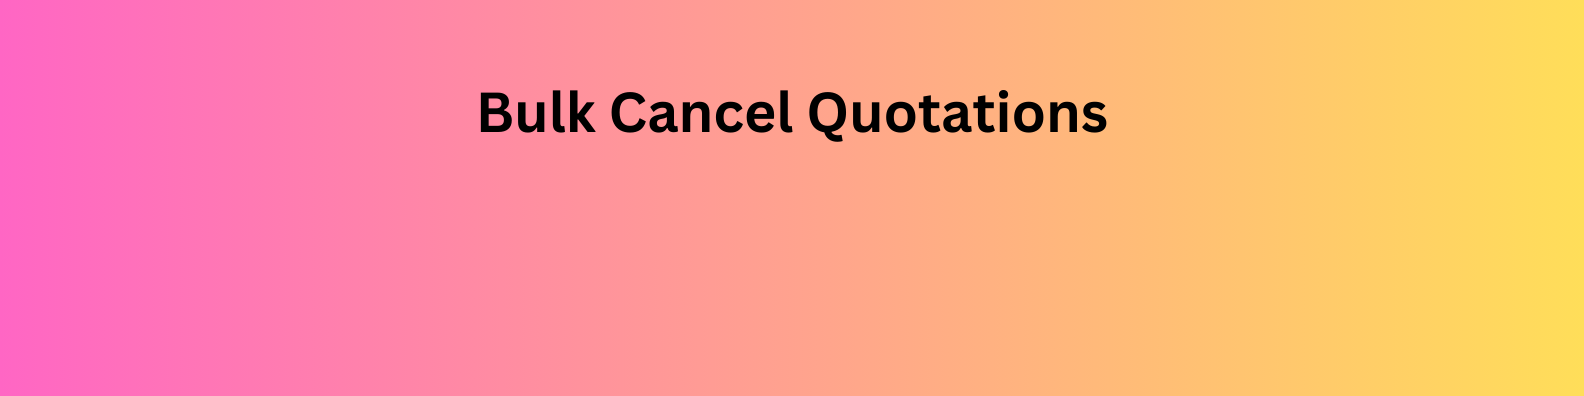
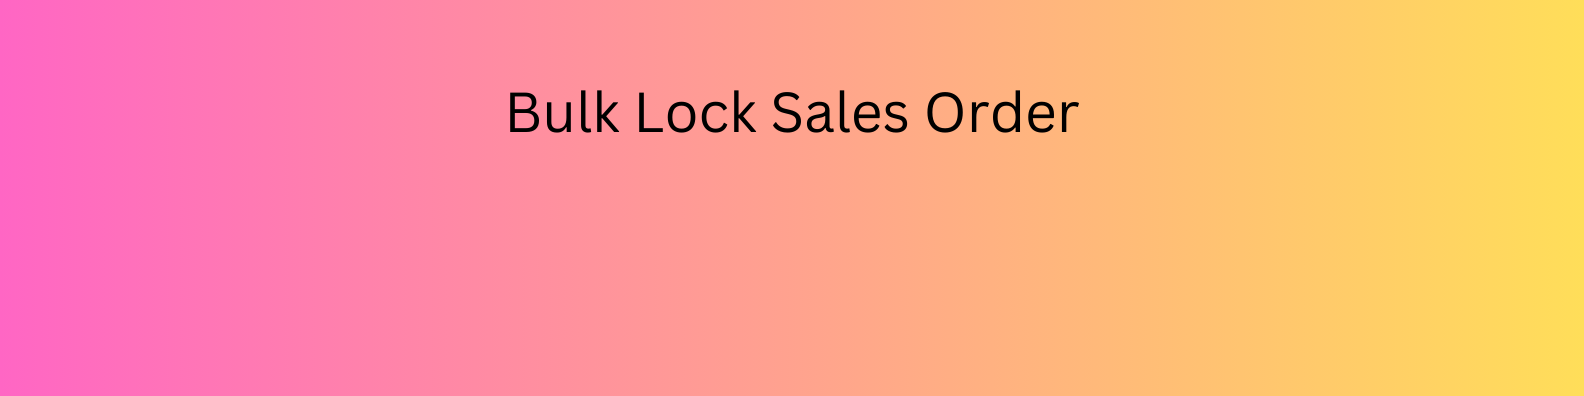
add new module for sales lock and unlock

Changed region(s): [[0.2784, 0.2121, 0.7115, 0.3636]]

diff --git a/mkb_bulk_so_lock/__manifest__.py b/mkb_bulk_so_lock/__manifest__.py
@@ -2,10 +2,10 @@
 # License LGPL-3 - See http://www.gnu.org/licenses/Lgpl-3.0.html
 
 {
-    'name': 'Bulk Lock Sales Orders',
+    'name': 'Bulk Unlock Sales Orders',
     'version': '1.0.0',
-    'summary': 'This app allows you to lock multiple sales order in bulk',
-    'description': 'This app allows you to lock multiple sales order in bulk',
+    'summary': 'This app allows you to unlock multiple sales order in bulk',
+    'description': 'This app allows you to unlock multiple sales order in bulk',
     'category': 'Sales',
     'author': 'Manish Bohra',
     'website': 'www.linkedin.com/in/manishkumarbohra',

diff --git a/mkb_bulk_so_lock/model/bulk_sales.py b/mkb_bulk_so_lock/model/bulk_sales.py
@@ -11,4 +11,4 @@ class BulkSalesOrderCancel(models.Model):
         """this method used to sales order confirmation in bulk."""
         for sales in self:
             if sales.state  in ['sale'] and not sales.locked:
-                sales.update({'locked':True})
+                sales.update({'locked':False})

diff --git a/mkb_bulk_so_lock/README.md b/mkb_bulk_so_lock/README.md
@@ -1,20 +1,20 @@
-# Bulk Lock Sales Orders
+# Bulk Unlock Sales Orders
 
-Lock multiple confirmed Sales Orders in one go from the Sales Orders list view.
+Unlock multiple locked Sales Orders in one go from the Sales Orders list view.
 
 ---
 
 ## Features
 
-- Adds an **Action ▸ Lock Sales Orders** option in the Sales Orders list view.
-- Select several confirmed orders at once and lock them in bulk.
+- Adds an **Action ▸ Unlock Sales Orders** option in the Sales Orders list view.
+- Select several locked orders at once and unlock them in bulk.
 - Respects standard Odoo access rights and workflow.
 
 ---
 
 ## Compatibility
 
-- Odoo: 19.0
+- Odoo: 16.0 / 17.0 / 18.0 (adjust if different)
 
 ---
 
@@ -29,7 +29,7 @@ Lock multiple confirmed Sales Orders in one go from the Sales Orders list view.
 
 1. Copy this module into your Odoo `addons` path.
 2. Update the app list: **Apps ▸ Update Apps List**.
-3. Install **Bulk Lock Sales Orders**.
+3. Install **Bulk Unlock Sales Orders**.
 
 ---
 
@@ -37,13 +37,13 @@ Lock multiple confirmed Sales Orders in one go from the Sales Orders list view.
 
 1. Go to **Sales ▸ Orders**.
 2. Switch to the **list** (tree) view.
-3. Select the confirmed Sales Orders you want to lock.
-4. Click **Action ▸ Lock Sales Orders**.
-5. The selected Sales Orders will be locked immediately.
+3. Select the locked Sales Orders you want to unlock.
+4. Click **Action ▸ Unlock Sales Orders**.
+5. The selected Sales Orders will be unlocked immediately.
 
 > Notes:
-> - Only orders in the **Confirmed** state will be locked.
-> - Orders already locked remain unchanged.
+> - Only orders in the **Locked** state will be unlocked.
+> - Orders already unlocked remain unchanged.
 > - Standard Odoo permissions apply.
 
 ---
@@ -51,13 +51,13 @@ Lock multiple confirmed Sales Orders in one go from the Sales Orders list view.
 ## Access Rights
 
 - Users need Sales Orders access rights (`sale_user` or above).
-- The bulk action is only available for users allowed to lock orders individually.
+- The bulk action is only available for users allowed to unlock orders individually.
 
 ---
 
 ## Known Limitations
 
-- Quotations or already locked orders are skipped.
+- Quotations or already unlocked orders are skipped.
 - Custom workflows or third-party modules may alter behavior.
 
 ---
@@ -77,3 +77,7 @@ If you encounter problems or want enhancements, please open an issue or contact 
 - **Manish Kumar Bohra** — <manishkumarbohra@outlook.com>
 
 ---
+
+## License
+
+This module is licensed under the same terms as Odoo Community addons unless specified otherwise. Update this section if you use a different license.
